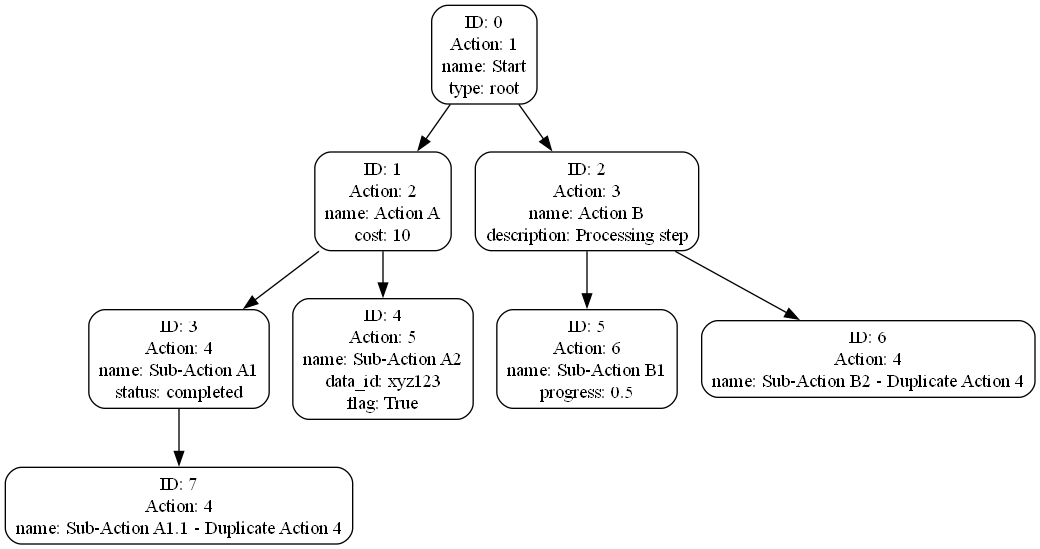
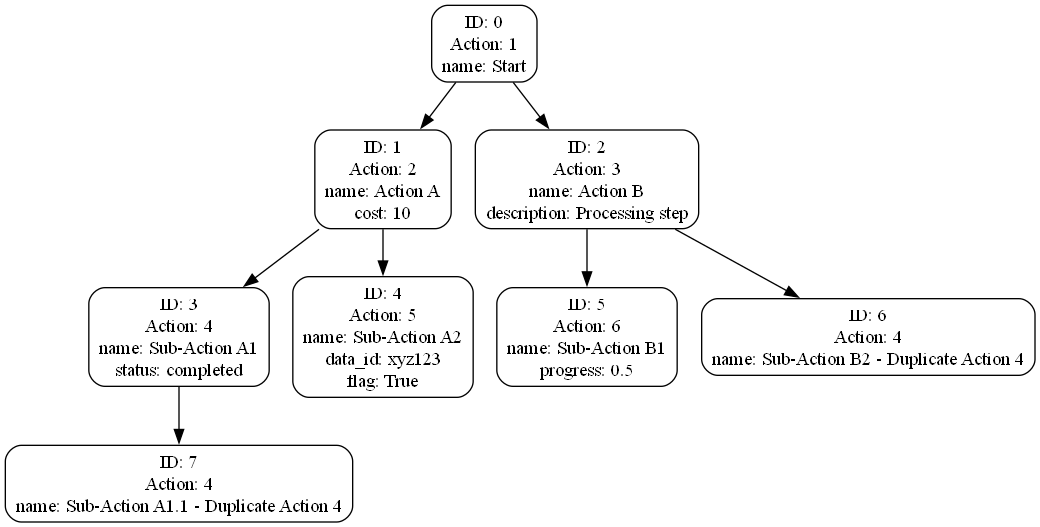
edits on tree

diff --git a/tree.py b/tree.py
@@ -66,22 +66,8 @@ class VisualTree:
 
         return None, None # لم يتم العثور على العقدة
 
-    def _find_node_by_action(self, target_action: int, current_node: Node):
-        """دالة مساعدة (خاصة) للبحث عن أول عقدة بقيمة action معينة (بحث عمق أول)"""
-        # ملاحظة: هذه الدالة قد تجد أكثر من عقدة إذا تكرر الـ action
-        # نرجع أول عقدة نجدها فقط
-        if current_node is None:
-            return None
 
-        if current_node.action == target_action:
-            return current_node
-
-        for child in current_node.children:
-            found_node = self._find_node_by_action(target_action, child)
-            if found_node:
-                return found_node
-
-        return None
+    # تم إزالة _find_node_by_action لأننا لن نستخدمها في add_node بعد الآن
 
 
     def _build_graphviz(self, node: Node):
@@ -97,6 +83,7 @@ class VisualTree:
 
         if node.info: # إذا كان قاموس info غير فارغ
             for key, value in node.info.items():
+                # نحول القيمة إلى string لضمان عرضها
                 node_label_lines.append(f"{key}: {value}")
 
         node_label = "\n".join(node_label_lines)
@@ -111,24 +98,24 @@ class VisualTree:
             self._build_graphviz(child) # تابع البناء مع الابن
 
 
-    def add_node(self, parent_action: int, child_action: int, child_info: dict = None) -> int | None:
+    def add_node(self, parent_id, child_action: int, child_info: dict = None) -> int | None:
         """
-        يضيف عقدة جديدة كابن لأول عقدة يتم العثور عليها بقيمة parent_action.
+        يضيف عقدة جديدة كابن للعقدة التي بمعرفها الفريد parent_id.
         يرجع المعرف الفريد للعقدة الابن الجديدة المضافة، أو None إذا فشلت الإضافة.
         """
-        # البحث عن العقدة الأب باستخدام الـ action
-        parent_node = self._find_node_by_action(parent_action, self.root)
+        # البحث عن العقدة الأب باستخدام المعرف الفريد
+        parent_node, _ = self._find_node_by_id_and_parent(parent_id, self.root, None)
 
         if parent_node:
             # توليد معرف فريد للعقدة الجديدة
             new_node_id = self._get_next_id()
             new_node = Node(new_node_id, child_action, child_info)
             parent_node.add_child(new_node)
-            print(f"Added node (ID: {new_node_id}, Action: {child_action}) as child of node with Action: {parent_action} (ID: {parent_node._id})")
+            print(f"Added node (ID: {new_node_id}, Action: {child_action}, Info: {child_info}) as child of node with ID: {parent_id} (Action: {parent_node.action})")
             # لا نستدعي التحديث هنا تلقائيًا
             return new_node_id # إرجاع المعرف الفريد للعقدة الجديدة
         else:
-            print(f"Error: Parent node with action {parent_action} not found. Cannot add node with action {child_action}.")
+            print(f"Error: Parent node with ID {parent_id} not found. Cannot add node with action {child_action}.")
             return None # فشل الإضافة
 
 
@@ -149,7 +136,6 @@ class VisualTree:
 
         # إزالة العقدة من قائمة أبناء الأب
         try:
-             # البحث عن العقدة في قائمة أبناء الأب باستخدام المعرف الفريد أو الكائن نفسه
              # بما أننا حصلنا على كائن العقدة الأصلية، يمكن استخدام .remove() مباشرة
              parent_of_node.children.remove(node_to_remove)
              print(f"Removed node with ID: {node_id_to_remove} (Action: {node_to_remove.action}, and its subtree).")
@@ -185,52 +171,110 @@ class VisualTree:
         except Exception as e:
             print(f"An error occurred during rendering: {e}")
 
+    def find_nodes_by_action(self, target_action: int) -> list[Node]:
+        """
+        تبحث وتُرجع قائمة بجميع العقد التي لها قيمة action معينة.
+        مفيدة إذا أردت العثور على ID عقدة معينة بناءً على الـ action الخاص بها (مع الانتباه لوجود تكرارات).
+        """
+        found_nodes = []
+
+        def search_recursive(current_node: Node):
+            if current_node is None:
+                return
+
+            if current_node.action == target_action:
+                found_nodes.append(current_node)
+
+            for child in current_node.children:
+                search_recursive(child)
+
+        search_recursive(self.root)
+        return found_nodes
+
+
 # --- مثال على الاستخدام ---
 
 if __name__ == "__main__":
-    # إنشاء شجرة بعقدة جذرية (action=1, info={'name': 'Start', 'type': 'root'})
+    # إنشاء شجرة بعقدة جذرية (action=1, info={'name': 'Start'})
     # المعرف الفريد الأول سيكون 0
-    tree = VisualTree(1, {'name': 'Start', 'type': 'root'})
+    tree = VisualTree(1, {'name': 'Start'})
     print(f"Initial tree created with root (Action: 1, ID: {tree.root._id}).")
-    root_id = tree.root._id # نحتفظ بمعرف الجذر إذا احتجناه
+    root_id = tree.root._id # نحتفظ بمعرف الجذر
 
     # عرض الشجرة الابتدائية (ستكون فقط العقدة الجذرية بمعرف 0)
     tree.render_and_display()
 
-    input("\nPress Enter to add initial nodes (Actions 2, 3, etc. - IDs will be 1, 2, ...)...")
-    # إضافة بعض العقد بمعلومات مختلفة في القاموس info
+    input("\nPress Enter to add initial nodes (Actions 2, 3, 4, 5, 6 under different parents using parent IDs)...")
+    # إضافة بعض العقد بمعلومات مختلفة في القاموس info، باستخدام ID الأب
     # سنحتفظ بـ IDs للعقد التي قد نريد حذفها لاحقاً
-    child1_id = tree.add_node(1, 2, {'name': 'Action A', 'cost': 10}) # الابن الأول للجذر (action=2) - ID 1
-    child2_id = tree.add_node(1, 3, {'name': 'Action B', 'description': 'Processing step'}) # الابن الثاني للجذر (action=3) - ID 2
+    child1_id = tree.add_node(root_id, 2, {'name': 'Action A', 'cost': 10}) # الابن الأول للجذر (action=2) - ID 1
+    child2_id = tree.add_node(root_id, 3, {'name': 'Action B', 'description': 'Processing step'}) # الابن الثاني للجذر (action=3) - ID 2
 
-    grandchild1_of_2_id = tree.add_node(2, 4, {'name': 'Sub-Action A1', 'status': 'completed'}) # ابن Action 2 (ID 1) (action=4) - ID 3
-    grandchild2_of_2_id = tree.add_node(2, 5, {'name': 'Sub-Action A2', 'data_id': 'xyz123', 'flag': True}) # ابن Action 2 (ID 1) (action=5) - ID 4
+    # نتأكد أن الإضافة تمت بنجاح قبل محاولة استخدام الـ IDs
+    if child1_id is not None:
+        grandchild1_of_2_id = tree.add_node(child1_id, 4, {'name': 'Sub-Action A1', 'status': 'completed'}) # ابن العقدة ذات ID child1_id (action=4) - ID 3
+        grandchild2_of_2_id = tree.add_node(child1_id, 5, {'name': 'Sub-Action A2', 'data_id': 'xyz123', 'flag': True}) # ابن العقدة ذات ID child1_id (action=5) - ID 4
+    else:
+        grandchild1_of_2_id, grandchild2_of_2_id = None, None
 
-    grandchild1_of_3_id = tree.add_node(3, 6, {'name': 'Sub-Action B1', 'progress': 0.5}) # ابن Action 3 (ID 2) (action=6) - ID 5
+    if child2_id is not None:
+        grandchild1_of_3_id = tree.add_node(child2_id, 6, {'name': 'Sub-Action B1', 'progress': 0.5}) # ابن العقدة ذات ID child2_id (action=6) - ID 5
+    else:
+        grandchild1_of_3_id = None
 
     # إضافة عقدتين لهما نفس الـ action (مثلاً action 4) ولكن آباء مختلفين
-    duplicate_action_node1_id = tree.add_node(3, 4, {'name': 'Sub-Action B2 - Duplicate Action 4'}) # ابن Action 3 (ID 2) (action=4) - ID 6
-    duplicate_action_node2_id = tree.add_node(4, 4, {'name': 'Sub-Action A1.1 - Duplicate Action 4'}) # ابن Action 4 (ID 3) (action=4) - ID 7
+    if child2_id is not None:
+         # نضيف تحت العقدة ذات ID child2_id (action 3)
+        duplicate_action_node1_id = tree.add_node(child2_id, 4, {'name': 'Sub-Action B2 - Duplicate Action 4'}) # ID 6
+    else:
+        duplicate_action_node1_id = None
+
+    if grandchild1_of_2_id is not None:
+        # نضيف تحت العقدة ذات ID grandchild1_of_2_id (action 4)
+        duplicate_action_node2_id = tree.add_node(grandchild1_of_2_id, 4, {'name': 'Sub-Action A1.1 - Duplicate Action 4'}) # ID 7
+    else:
+        duplicate_action_node2_id = None
+
 
     # عرض الشجرة بعد الإضافات
     tree.render_and_display()
 
-    print(f"\nAdded node with ID: {child1_id}, action 2")
-    print(f"Added node with ID: {child2_id}, action 3")
-    print(f"Added node with ID: {grandchild1_of_2_id}, action 4 (under action 2)")
-    print(f"Added node with ID: {grandchild2_of_2_id}, action 5 (under action 2)")
-    print(f"Added node with ID: {grandchild1_of_3_id}, action 6 (under action 3)")
-    print(f"Added node with ID: {duplicate_action_node1_id}, action 4 (under action 3)")
-    print(f"Added node with ID: {duplicate_action_node2_id}, action 4 (under action 4 ID={grandchild1_of_2_id})")
+    print("\nIDs of some added nodes:")
+    print(f"Root ID: {root_id}")
+    print(f"Child 1 ID (Action 2): {child1_id}")
+    print(f"Child 2 ID (Action 3): {child2_id}")
+    print(f"Grandchild 1 of ID {child1_id} (Action 4): {grandchild1_of_2_id}")
+    print(f"Grandchild 2 of ID {child1_id} (Action 5): {grandchild2_of_2_id}")
+    print(f"Grandchild 1 of ID {child2_id} (Action 6): {grandchild1_of_3_id}")
+    print(f"Duplicate Action 4 under ID {child2_id}: {duplicate_action_node1_id}")
+    print(f"Duplicate Action 4 under ID {grandchild1_of_2_id}: {duplicate_action_node2_id}")
 
 
-    input(f"\nPress Enter to remove node with ID {child1_id} (Action 2, and its subtree)...")
-    # إزالة العقدة التي الـ ID الخاص بها هو child1_id (وهي العقدة التي action الخاص بها 2 تحت الجذر)
-    # هذا سيؤدي أيضاً لإزالة أبنائها (IDs 3 و 4) وأبناء أبنائها (ID 7)
-    tree.remove_node(child1_id)
+    # # مثال على البحث عن عقدة بالـ action (لإظهار كيفية العثور على ID إذا لم تكن تعرفه مباشرة)
+    # print("\nSearching for nodes with Action 4:")
+    # action_4_nodes = tree.find_nodes_by_action(4)
+    # if action_4_nodes:
+    #     print(f"Found {len(action_4_nodes)} node(s) with Action 4:")
+    #     for node in action_4_nodes:
+    #         print(f" - Node ID: {node._id}, Parent ID (if not root): {next((p._id for p in [tree.root] + [c for parent in tree.root.children for c in parent.children if node in parent.children] for c in parent.children if node in parent.children), None)}, Info: {node.info}") # عرض الأب معقد قليلا هنا
+    #         # طريقة أسهل لعرض الأب:
+    #         _, parent = tree._find_node_by_id_and_parent(node._id, tree.root, None)
+    #         parent_id_display = parent._id if parent else "None (Root)"
+    #         print(f"   - Node ID: {node._id}, Parent ID: {parent_id_display}, Info: {node.info}")
 
-    # عرض الشجرة بعد الحذف
-    tree.render_and_display()
+    # else:
+    #     print("No nodes found with Action 4.")
+
+
+    if child1_id is not None:
+        input(f"\nPress Enter to remove node with ID {child1_id} (Action 2, and its subtree)...")
+        # إزالة العقدة التي الـ ID الخاص بها هو child1_id (وهي العقدة التي action الخاص بها 2 تحت الجذر)
+        # هذا سيؤدي أيضاً لإزالة أبنائها وأبناء أبنائها
+        tree.remove_node(child1_id)
+        # عرض الشجرة بعد الحذف
+        tree.render_and_display()
+    else:
+        print("\nSkipping removal of node with ID (was not added successfully).")
 
 
     input("\nPress Enter to try removing a non-existent node (ID 999)...")
@@ -238,25 +282,28 @@ if __name__ == "__main__":
     tree.render_and_display() # عرض للتأكد أنه لم يحدث تغيير
 
 
-    input(f"\nPress Enter to remove node with ID {duplicate_action_node1_id} (Action 4, under Action 3)...")
-    # إزالة إحدى العقدتين اللتين لهما نفس الـ action 4، بالاعتماد على الـ ID الفريد الخاص بها
-    tree.remove_node(duplicate_action_node1_id)
-
-    # عرض الشجرة بعد الحذف
-    tree.render_and_display()
-
-
-    input("\nPress Enter to add another node (Action 7) under Action 3...")
-    # هنا قد تكون هناك أكثر من عقدة بالـ action 3. الكود الحالي سيضيف تحت أول عقدة يجدها بـ action 3 (وهي العقدة ذات ID 2)
-    tree.add_node(3, 7, {'name': 'Sub-Action B3', 'details': 'more info'})
-
-    # عرض الشجرة بعد الإضافة الجديدة
-    tree.render_and_display()
+    if duplicate_action_node1_id is not None:
+        input(f"\nPress Enter to remove node with ID {duplicate_action_node1_id} (Action 4, under Action 3)...")
+        # إزالة إحدى العقدتين اللتين لهما نفس الـ action 4، بالاعتماد على الـ ID الفريد الخاص بها
+        tree.remove_node(duplicate_action_node1_id)
+         # عرض الشجرة بعد الحذف
+        tree.render_and_display()
+    else:
+         print("\nSkipping removal of duplicate action node 1 (was not added successfully).")
 
 
-    input("\nPress Enter to try adding to a non-existent parent (Action 100)...")
-    tree.add_node(100, 200, {'error': 'Should Fail'}) # محاولة الإضافة لأب غير موجود بالـ action
+    if child2_id is not None:
+        input(f"\nPress Enter to add another node (Action 7) under node with ID {child2_id} (Action 3)...")
+        # نضيف تحت العقدة ذات ID child2_id (action 3)
+        tree.add_node(child2_id, 7, {'name': 'Sub-Action B3', 'details': 'more info'})
+        # عرض الشجرة بعد الإضافة الجديدة
+        tree.render_and_display()
+    else:
+        print("\nSkipping adding node under child 2 (was not added successfully).")
+
+
+    input("\nPress Enter to try adding to a non-existent parent (ID 9999)...")
+    tree.add_node(9999, 200, {'error': 'Should Fail'}) # محاولة الإضافة لأب غير موجود بالـ ID
     tree.render_and_display() # عرض للتأكد أنه لم يحدث تغيير
-
 
     input("\nPress Enter to exit.")

diff --git a/game_ai.py b/game_ai.py
@@ -20,10 +20,12 @@ class AiPlayer(ComputerPlayer):
     def get_player_action(self, state):
         self.my_player_number = state.get_who_player_turn()
         # is_maximizing = (state.get_who_player_turn() == self.my_player_number)
-        _, action = self._minimax(self.depth, True, state, alpha=float('-inf'), beta=float('inf'))
+        treeObject = VisualTree(-1, {'name': 'Current State'})
+        _, action = self._minimax(treeObject, self.depth, True, state, alpha=float('-inf'), beta=float('inf'))
+        treeObject.render_and_display()
         return action
 
-    def _minimax(self, depth, is_maximizing, state, alpha, beta):
+    def _minimax(self, treeObject, depth, is_maximizing, state, alpha, beta):
         # return best_score, best_action
      
         if state.is_terminate() or depth == 0:
@@ -40,7 +42,7 @@ class AiPlayer(ComputerPlayer):
             best_score = float('-inf')
             for action in actions:
                 new_state = state.take_action_in_different_state_object(action)
-                score, _ = self._minimax(depth - 1, False, new_state, alpha, beta)
+                score, _ = self._minimax(treeObject, depth - 1, False, new_state, alpha, beta)
 
                 
                 if score > best_score or best_action is None:
@@ -53,7 +55,7 @@ class AiPlayer(ComputerPlayer):
             best_score = float('inf')
             for action in actions:
                 new_state = state.take_action_in_different_state_object(action)
-                score, _ = self._minimax(depth - 1, True, new_state, alpha, beta)
+                score, _ = self._minimax(treeObject, depth - 1, True, new_state, alpha, beta)
 
                 if score < best_score or best_action is None:
                     best_score = score
